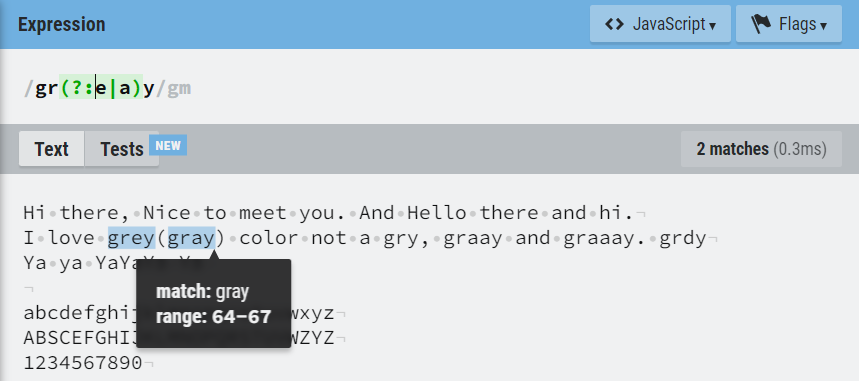
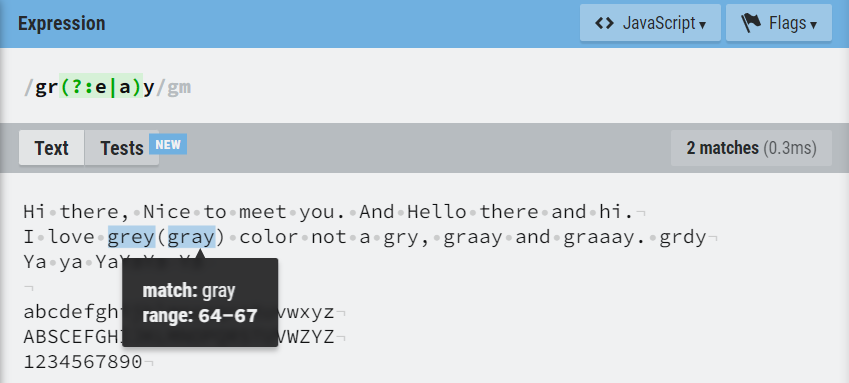
regex 포스팅 ver.2, 이미지 및 설명 추가

diff --git a/_posts/2022-01-11-regex.md b/_posts/2022-01-11-regex.md
@@ -1,6 +1,6 @@
 ---
 title: "정규 표현식 (REGEX: Regular Expression)"
-excerpt: "정규 표현식을 사용하여 처리하고자 하는 문자열을 찾아내 보자!"
+excerpt: "정규 표현식의 **패턴**을 작성하여 처리하고자 하는 문자열을 찾아내 보자!"
 
 categories: coding
 tags: [정규표현식, regex, regular expression]
@@ -14,14 +14,16 @@ sidebar: false
 
 ※ 이 포스팅은 다음 영상을 참고하였습니다 : [**정규표현식 , 더이상 미루지 말자 🤩**](https://youtu.be/t3M6toIflyQ)
 
+
 ## 1. 정규 표현식의 문법
 
 - 텍스트에서 우리가 원하는 **특정한 패턴을 찾을** 때, **찾아서 처리**할 때, 혹은 입력된 데이터의 **유효성을 검사**할 때 정규 표현식을 사용하면 유용하다!
 
 - 정규표현식 = 패턴 구분자 시작(/) + **작성할 패턴** + 패턴 구분자 끝(/) + 패턴 변경자(g 또는 gm)
-<!-- g(global): 매칭되는 다수의 결괏값을 기억 
-m(multiline option): 
--->
+
+- 패턴 변경자(flag) : **1.3.7 예시 참고!!**
+  - g(global): 매칭되는 다수의 결괏값을 기억, 
+  - m(multiline option):
 
 - 정규 표현식 테스트 사이트 : [**regexr.com/**](https://regexr.com/)
 
@@ -36,45 +38,130 @@ m(multiline option):
 |[^]|부정 문자세트, 괄호 안의 어떤 문자가 아닐 때|
 |(?:)|찾지만 기억하지는 않음|
 
-![hi](/assets\images\regex\hi.PNG)
-![hello](/assets\images\regex\hello.PNG)
-![hihello](/assets\images\regex\hihello.PNG)
-![hihellogroup](/assets\images\regex\hihellogroup.PNG)
-![hihelloandgroup](/assets\images\regex\hihelloandgroup.PNG)
+#### 예시 )
 
+1.1.1. < 일반적인 텍스트 검사하기 1 >
+![hi](/assets\images\regex\hi.PNG)
+
+1.1.2. < 일반적인 텍스트 검사하기 2 >
+![hello](/assets\images\regex\hello.PNG)
+
+1.1.3. < 버티컬바(|)를 이용하여 하나라도 매칭되는 텍스트 찾기 >
+![hihello](/assets\images\regex\hihello.PNG)
+
+1.1.4. < 소괄호를 이용하여 그룹 지정하기 >
+![hihellogroup](/assets\images\regex\hihellogroup.PNG)
+
+1.1.5. < 여러 개의 소괄호를 이용하여 여러 그룹 지정하기 >
+![hihelloandgroup](/assets\images\regex\hihelloandgroup.PNG)
+: 마우스를 올리면 어느 그룹에 매칭되는 지 표시됨 
+
+1.1.6. < 소괄호와 버티컬바를 이용하여 grey 또는 gray 찾기 >
 ![greyorgray](/assets\images\regex\greyorgray.PNG)
+
+1.1.7. < 물음표와 콜론을 이용하여, 찾지만 기억하지 않기 >
 ![greyorgraygroup](/assets\images\regex\greyorgraygroup.PNG)
 ![greyorgraynogroup](/assets\images\regex\greyorgraynogroup.PNG)
-![greyorgrayorgrdy](/assets\images\regex\greyorgrayorgrdy.PNG)
-![greyorgrayorgrdy2](/assets\images\regex\greyorgrayorgrdy2.PNG)
-![greyorgrayorgrdy3](/assets\images\regex\greyorgrayorgrdy3.PNG)
+: 위(?:를 쓰지 않고 소괄호만 사용했을 때)에서는 그룹이 지정되지만, 아래에서는 그룹이 지정되지 않음. 소괄호를 텍스트를 찾는 도구로써만 사용하는 것. 
 
+1.1.8. < 소괄호와 버티컬바를 이용하여 grey 또는 gray 또는 grdy 찾기 >
+![greyorgrayorgrdy](/assets\images\regex\greyorgrayorgrdy.PNG)
+
+1.1.9. < 대괄호를 이용하여 grey 또는 gray 또는 grdy 찾기 1 >
+![greyorgrayorgrdy2](/assets\images\regex\greyorgrayorgrdy2.PNG)
+: 대괄호 안의 어떤 문자든 들어 있기만 하면 찾음
+
+1.1.10. < 대괄호를 이용하여 grey 또는 gray 또는 grdy 찾기 2 >
+![greyorgrayorgrdy3](/assets\images\regex\greyorgrayorgrdy3.PNG)
+: 대괄호 안에 범위를 지정하여 찾는 방법 (gray, grby, grcy, grdy, grey가 모두 가능)
+
+1.1.11. < 대괄호를 이용하여 다양한 집합체 만들어 보기 >
 ![wordset](/assets\images\regex\wordset.PNG)
+: '소문자 a부터 z까지, 대문자 A부터 Z까지, 숫자 0부터 9까지'라고 지정하여 찾음
+
+1.1.12. < 꺽쇠(눈웃음)를 이용하여 '지정한 내용을 제외한 모든 것'을 찾아 보기 >
 ![wordsetneg](/assets\images\regex\wordsetneg.PNG)
+: '소문자 a부터 z까지, 대문자 A부터 Z까지, 숫자 0부터 9까지'에 해당하지 않는 내용만 찾음
 
 ### 1.2. 수량 (Quantifiers)
 
 |Character|Description|
 |:---:|:---| 
-|?|없거나 있거나 (zero or one)|
-|*|없거나 있거나 많거나 (zero or more)|
+|?|없거나 하나 있거나 (zero or one)|
+|*|없거나 하나 있거나 많거나 (zero or more)|
 |+|하나 또는 많이 (one or more)|
 |{n}|n번 반복|
 |{min,}|최소|
 |{min,max}|최소, 최대|
 
+#### 예시 )
 
+1.2.1. < 물음표를 이용하여 앞의 문자가 없거나 하나 있는 경우 찾기 >
+![grayorgry](/assets\images\regex\grayorgry.PNG)
+: a가 하나 있거나(gray) 없는 경우(gry)를 찾음
+
+1.2.2. < 별표를 이용하여 앞의 문자가 없거나 하나 있거나 많은 경우 찾기 >
+![grayorgryorgraayorgraaay](/assets\images\regex\grayorgryorgraayorgraaay.PNG)
+: a가 하나 있거나(gray) 없거나(gry) 많은 경우(graay, graaay)를 찾음
+
+1.2.3. < 더하기를 이용하여 앞의 문자가 하나 있거나 많은 경우 찾기 >
+![grayorgraayorgraaay](/assets\images\regex\grayorgraayorgraaay.PNG)
+: a가 하나 있거나(gray) 많은 경우(graay, graaay)를 찾음
+
+1.2.4. < 중괄호를 이용하여 앞의 문자의 개수를 지정하여 찾기 >
+![graay](/assets\images\regex\graay.PNG)
+: a가 2개인 경우를 찾음
+
+1.2.5. < 중괄호를 이용하여 앞의 문자의 최소 개수를 지정하여 찾기 >
+![graayormore](/assets\images\regex\graayormore.PNG)
+: a가 2개 이상인 경우를 찾음
+
+1.2.6. < 중괄호를 이용하여 앞의 문자의 최소, 최대 개수를 지정하여 찾기 >
+![grayminmax](/assets\images\regex\grayminmax.PNG)
+: a가 최소 1개 최대 3개인 경우를 찾음
 
 ### 1.3. 단어 경계 (Boundary-type)
 
 |Character|Description|
 |:---:|:---| 
-|\b|단어 경계|
+|\b|단어 경계 (boundary)|
 |\B|단어 경계가 아님|
 |^|문장의 시작|
 |$|문장의 끝|
 
+#### 예시 )
 
+1.3.1. < \b를 이용하여 단어 앞부분에서 쓰인 특정 문자열 찾기 >
+![yaboundary](/assets\images\regex\yaboundary.PNG)
+: \b를 Ya 앞에 붙이면 단어의 앞부분에 쓰인 Ya만 찾음
+
+1.3.2. < \B를 이용하여 단어 앞부분에서 쓰이지 않은 특정 문자열 찾기 >
+![yanoboundary](/assets\images\regex\yanoboundary.PNG)
+: \B를 Ya 앞에 붙이면 단어의 앞부분에 쓰이지 않은 Ya만 찾음
+
+1.3.3. < \b를 이용하여 단어 뒷부분에서 쓰인 특정 문자열 찾기 >
+![yaboundary2](/assets\images\regex\yaboundary2.PNG)
+: \b를 Ya 뒤에 붙이면 단어의 뒷부분에 쓰인 Ya만 찾음
+
+1.3.4. < \B를 이용하여 단어 뒷부분에서 쓰이지 않은 특정 문자열 찾기 >
+![yanoboundary2](/assets\images\regex\yanoboundary2.PNG)
+: \B를 Ya 뒤에 붙이면 단어의 뒷부분에 쓰이지 않은 Ya만 찾음
+
+1.3.5. < 꺽쇠(눈웃음)를 사용하여 문장의 시작 부분에서 쓰인 특정 문자열 찾기 >
+![yacaret](/assets\images\regex\yacaret.PNG)
+: ^를 Ya 앞에 붙이면 문장의 시작 부분에 쓰인 Ya만 찾음
+
+1.3.6. < 달러를 사용하여 문장의 끝 부분에서 쓰인 특정 문자열 찾기 >
+![yadollar](/assets\images\regex\yadollar.PNG)
+: $를 Ya 뒤에 붙이면 문장의 끝 부분에 쓰인 Ya만 찾음
+
+1.3.7. < flag g(global)과 gm(global & multiline)의 차이점 >
+![yadollarglobal](/assets\images\regex\yadollarglobal.PNG)
+: multiline flag를 선택하지 않았을 경우(/Ya$/g), 글 전체를 한 문장으로 보기 때문에 Ya를 찾지 못함
+![yadollarglobal2](/assets\images\regex\yadollarglobal2.PNG)
+: 따라서, 글의 마지막에 Ya를 추가하면 찾는 것을 볼 수 있음
+![yadollarglobalmultiline](/assets\images\regex\yadollarglobalmultiline.PNG)
+: multiline flag를 선택했을 경우(/Ya$/gm), 각 줄을 문장으로 인식하기 때문에 세 번째 줄의 Ya와 마지막 줄의 Ya를 모두 찾음 
 
 ### 1.4. 문자 (Character Classes)
 
@@ -89,10 +176,71 @@ m(multiline option):
 |\s|공백 (space)|
 |\S|공백 아님|
 
+#### 예시 )
+
+1.4.1. < 마침표를 사용하여 줄바꿈 문자를 제외한 모든 문자를 선택하기 >
+![dot](/assets\images\regex\dot.PNG)
+
+1.4.2. < 역슬래시(&#92;)를 사용하여 특수문자열 찾기 >
+![dotspecialchar](/assets\images\regex\dotspecialchar.PNG)
+: 정규 표현식에서 기능하는 특수문자가 아닌, 텍스트로 사용된 특수문자를 찾고 싶을 때 &#92;를 사용. (모든 문자를 선택하는 특수문자 마침표가 아니라, 텍스트에서 실제로 마침표로 사용된 것을 찾는 것)
+![specialchar](/assets\images\regex\specialchar.PNG)
+: 특수문자 하나 당 &#92; 하나씩 사용해야 함
+
+1.4.3. < /d를 이용하여 숫자 찾기 >
+![digit](/assets\images\regex\digit.PNG)
+: : 특수문자와 공백도 찾음
+
+1.4.4. < /D를 이용하여 숫자가 아닌 모든 문자 찾기 >
+![nodigit](/assets\images\regex\nodigit.PNG)
+
+1.4.5. < /w를 이용하여 모든 문자열 찾기 >
+![word](/assets\images\regex\word.PNG)
+: 특수문자와 공백 제외
+
+1.4.6. < /W를 이용하여 문자열을 제외한 모든 것 찾기 >
+![noword](/assets\images\regex\noword.PNG)
+: 특수문자와 공백도 찾음
+
+1.4.7. < /s를 이용하여 공백 찾기 >
+![space](/assets\images\regex\space.PNG)
+
+1.4.8. < /S를 이용하여 공백을 제외한 모든 것 찾기>
+![nospace](/assets\images\regex\nospace.PNG)
 
 
 ## 2. 정규 표현식 연습
 
-## 3. 자바스크립트에서의 활용 예시
+![exercise](/assets\images\regex\exercise.PNG)
 
-<!-- ### 정규 표현식에서 자주 사용하는 메서드 -->
+### 2.1. 전화번호 찾기
+![phonenumber](/assets\images\regex\exercise_phonenumber.PNG)
+
+### 2.2. 이메일 찾기
+![email](/assets\images\regex\exercise_email.PNG)
+: 최소 하나가 있으면서 많은 경우를 포함하기 위해 +를 사용
+
+### 2.3. 유튜브 비디오 id 가져오기
+![videoid](/assets\images\regex\exercise_videoid.PNG)
+: 원하는 것은 세 번째 그룹인 비디오 아이디 부분이기 때문에 앞의 두 그룹은 ?:을 사용하여 '찾지만 기억하지 않음'
+
+
+## 3. 자바스크립트에서의 활용 예시 (2.3. 심화)
+
+1. 콘솔 창에서 슬래시를 이용해 regex 변수에 정규 표현식을 할당함
+![regexinjs1](/assets\images\regex\regexinjs1.PNG)
+
+2. url 변수에 유튜브 주소를 할당함
+![regexinjs2](/assets\images\regex\regexinjs2.PNG)
+
+3. 해당 url에 원하는 정규표현식을 매칭하는 함수를 호출하면, 결괏값이 배열로 리턴됨. (비디오 id는 index 1에 해당하는 것을 볼 수 있음)
+![regexinjs3](/assets\images\regex\regexinjs3.PNG)
+
+4. result 변수에 매칭되는 결과를 할당함
+![regexinjs4](/assets\images\regex\regexinjs4.PNG)
+
+5. result라는 배열의 index 1 데이터를 가져오면 비디오 id를 볼 수 있음. 
+![regexinjs5](/assets\images\regex\regexinjs5.PNG)
+
+
+<!-- ### 3.2. 정규 표현식에서 자주 사용하는 메서드 -->
